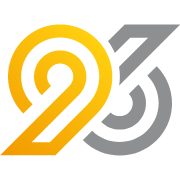
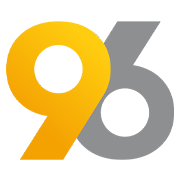
6478 换logo

diff --git a/src/_skin005/views/header/Header.vue.html b/src/_skin005/views/header/Header.vue.html
@@ -1,23 +1,12 @@
 <v-sheet v-if="!$mobile" height="74" color="head_color" elevation="0" width="100%" class="header mx-0 d-flex align-center">
     <v-sheet class="d-flex align-center" width="100%" color="transparent">
         <!-- 針對 09 皮做調整 start -->
-        <v-img
-            v-if="!SkinVariable.isShowfullLogo && isMini && GlobalVar.skin != 'skin009'"
-            class="ml-4"
-            max-width="42"
-            :src="commonIcon.logo_m"
-        ></v-img>
+        <v-img v-if="!SkinVariable.isShowfullLogo && isMini" class="ml-4" max-width="42" :src="commonIcon.logo_m"></v-img>
         <v-img
             v-if="SkinVariable.isShowfullLogo && isMini"
             class="ml-0 mr-n4"
             max-width="112"
             max-height="42"
-            :src="commonIcon.logo"
-        ></v-img>
-        <v-img
-            v-if="!SkinVariable.isShowfullLogo && isMini && GlobalVar.skin == 'skin009'"
-            class="ml-4"
-            max-width="42"
             :src="commonIcon.logo"
         ></v-img>
         <!-- 針對 09 皮做調整 end -->
@@ -162,15 +151,8 @@
                 <svg-icon icon="menu" class="text-22 mr-2"></svg-icon>
             </v-sheet>
             <v-sheet color="transparent" @click="goHome">
-                <!-- 針對 09 皮做調整 start -->
-                <template v-if="GlobalVar.skin == 'skin009'">
-                    <v-img class="mr-2" max-width="36" :src="commonIcon.logo"></v-img>
-                </template>
-                <template v-else>
-                    <v-img v-if="!SkinVariable.isShowfullLogo" class="mr-2" max-width="36" :src="commonIcon.logo_m"></v-img>
-                    <v-img v-else class="mx-n4" max-width="94" max-height="26" :src="commonIcon.logo"></v-img>
-                </template>
-                <!-- 針對 09 皮做調整 end -->
+                <v-img v-if="!SkinVariable.isShowfullLogo" class="mr-2" max-width="36" :src="commonIcon.logo_m"></v-img>
+                <v-img v-else class="mx-n4" max-width="94" max-height="26" :src="commonIcon.logo"></v-img>
             </v-sheet>
         </v-sheet>
         <!-- <btn-yellow height="36" min_width="72"
